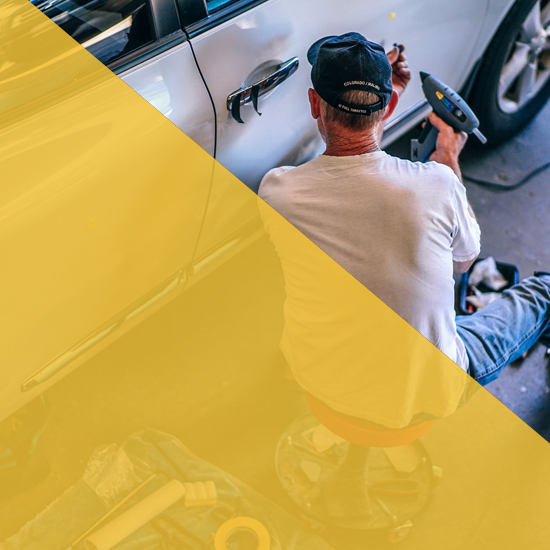
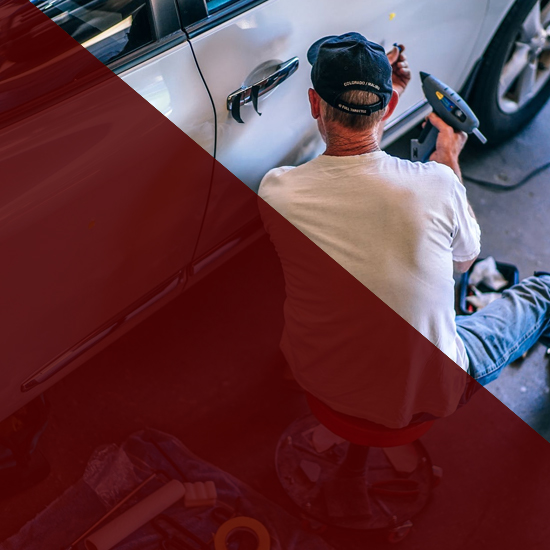
color change

diff --git a/css/custom.css b/css/custom.css
@@ -80,14 +80,14 @@ a.active{
 #top-nav {
     background: #F2C236;
     height: 200px;
-    color: #500000;
+    color: #000;
     padding-top: 20px;
 }
 
 header#header{
     position: relative;
     height: 200px;
-    background-color: #fff;
+    background-color: #000;
     width: 100%;
 }
 
@@ -386,9 +386,9 @@ iframe{
 
 footer {
     background: #f2c236;
-    height: 360px;
+    height: auto;
     padding-top: 50px;
-    color: #500000;
+    color: #000;
 }
 
 ul.bottom-list{
@@ -405,7 +405,7 @@ li.nav-item-bottom{
 }
 
 .nav-link-bottom{
-    color: #500000;
+    color: #000;
     font-size:15px;
 }
 
@@ -432,13 +432,13 @@ and (max-width : 1024px)  {
     background: #f2c236;
     height: 200px;
     padding-top: 10px;
-    color: #500000;
+    color: #000;
 }
 
 header#header {
     position: relative;
     height: 190px;
-    background-color: #fff;
+    background-color: #000;
     width: 100%;
 }
 
@@ -497,7 +497,7 @@ header#header {
 /*-------Footer------*/
 
 footer{
-    padding-bottom: 50px;
+
     height: auto;
 }
 
@@ -517,9 +517,9 @@ and (max-width :  667px)  {
 } 
 
 #top-nav {
-    background: #f2c236;;
+    background: #f2c236;
     height: 300px;
-    color: #500000;
+    color: #000;
     text-align: center;
     margin-right: auto;
     margin-left: auto;
@@ -697,7 +697,6 @@ ul.bottom-list {
 
 footer{
     height: auto;
-    padding-bottom: 30px;
 }
 
 footer p{
@@ -724,10 +723,10 @@ and (max-width :  568px)  {
 } 
 
 #top-nav {
-    background: #f2c236;;
+    background: #f2c236;
     height: 300px;
     padding-top: 5px;
-    color: #5000;
+    color: #000;
     padding-top: 10px;
 }
 
@@ -905,7 +904,7 @@ and (max-width : 480px)  {
     background: #f2c236;
     height: 320px;
     padding-top: 5px;
-    color: #500000;
+    color: #000;
     padding-top: 10px;
 }
 
@@ -1075,7 +1074,6 @@ ul.bottom-list {
 
 footer{
     height: auto;
-    padding-bottom: 30px;
 }
 
 footer p{

diff --git a/index.html b/index.html
@@ -319,18 +319,18 @@
     </div>
     <div class="row">
       <div class="col-1-2">
-        <p  style="color: #500000;">(979) 277-0433</p>
-        <p  style="color: #500000;">Call for a free quote</p>
+        <p  style="color: #000;">(979) 277-0433</p>
+        <p  style="color: #000;">Call for a free quote</p>
       </div>
       <div class="col-1-2 text-right">
-        <p class="right" style="color: #500000;">810 W. Main Brenham, Texas 77833</p>
-          <p class="right" style="color: #500000;">Mon - Friday 8 AM to 8 PM</p>
+        <p class="right" style="color: #000;">810 W. Main Brenham, Texas 77833</p>
+          <p class="right" style="color: #000;">Mon - Friday 8 AM to 8 PM</p>
       </div>
     </div>
-    <div class="largepedtable text-center">
-        <p  class="copyright" style="color: #500000;" >2018 © Copyright Brenham Collison Center. All rights reserved. Site proudly designed and hosted by Big Sky Internet Design</p>
-    </div>
   </div>
+     <div style="width:100%; background:#500000; padding:0px margin:0px;" class="largepedtable text-center">
+        <p  class="copyright" style="color: #fff; margin:0px;" >2018 © Copyright Brenham Collison Center. All rights reserved. Site proudly designed and hosted by Big Sky Internet Design</p>
+    </div>
 </footer>
 
 </div>
